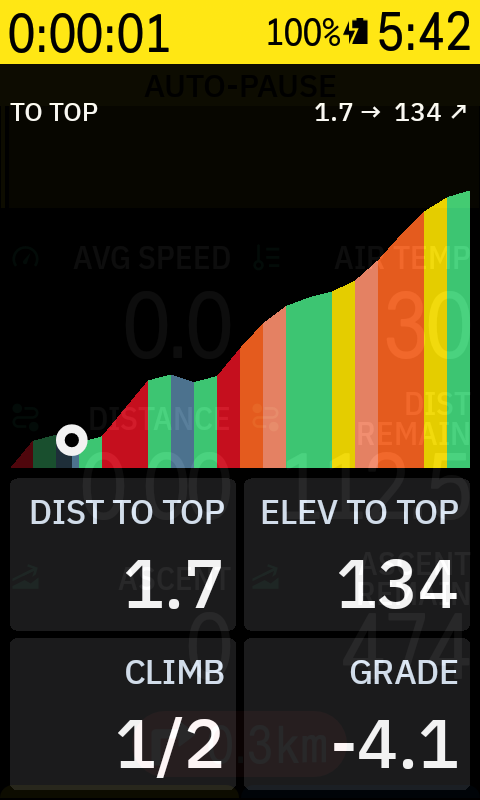
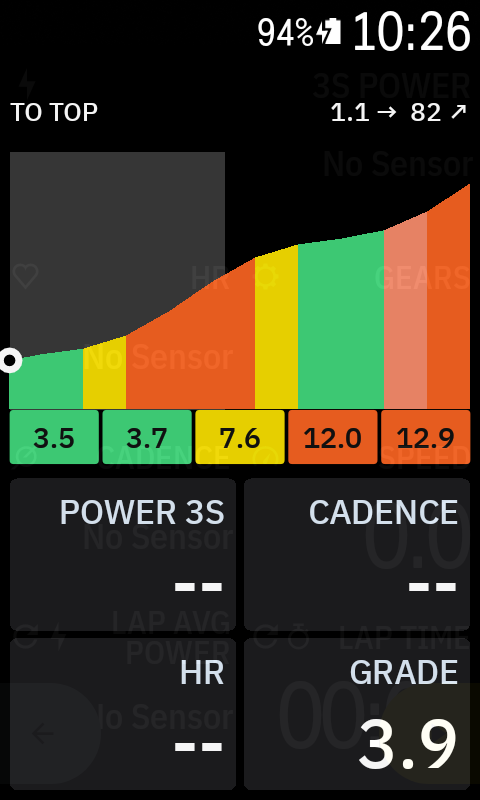
Better screenshots

diff --git a/README.md b/README.md
@@ -12,9 +12,9 @@ display modes, preview windows and data fields.
 Built on the official [karoo-ext](https://github.com/hammerheadnav/karoo-ext)
 extension API. No system modification.
 
-| Drawer (approaching) | Drawer (climbing) | Full screen |
-|---|---|---|
-| ![](docs/img/drawer-approach.png) | ![](docs/img/drawer-climbing.png) | ![](docs/img/full-view.png) |
+| Chip (climbing) | Drawer (approaching) | Drawer (climbing) | Climbs list | Full screen |
+|---|---|---|---|---|
+| ![](docs/img/chip-climb.png) | ![](docs/img/drawer-approach.png) | ![](docs/img/drawer-climbing.png) | ![](docs/img/climb-list.png) | ![](docs/img/full-view.png) |
 
 ## Features
 